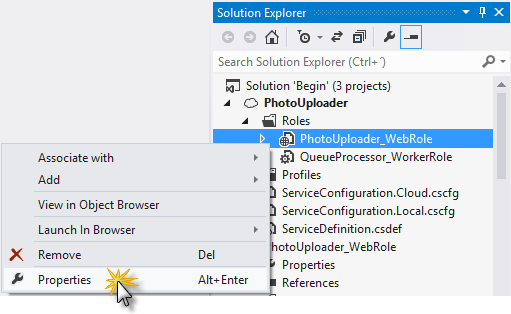
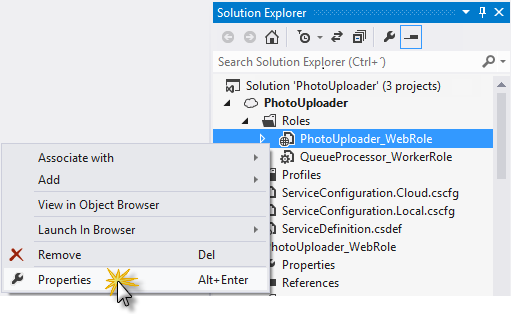
[HOL-GettingStartedWindowsAzureStorage] Tested and updated exercise 3

Changed region(s): [[0.5871, 0.258, 0.8806, 0.3153]]

diff --git a/HOLs/HOL-GettingStartedWindowsAzureStorage/Source/Ex3-UnderstandingStorageAbstractions/End/PhotoUploader_WebRole/Controllers/HomeController.cs b/HOLs/HOL-GettingStartedWindowsAzureStorage/Source/Ex3-UnderstandingStorageAbstractions/End/PhotoUploader_WebRole/Controllers/HomeController.cs
@@ -7,7 +7,6 @@ using System.Web.Mvc;
 using System.Threading.Tasks;
 using Microsoft.WindowsAzure;
 using Microsoft.WindowsAzure.Storage;
-using Microsoft.WindowsAzure.Storage.Table;
 using Microsoft.WindowsAzure.Storage.Blob;
 using Microsoft.WindowsAzure.Storage.Queue;
 
@@ -36,6 +35,7 @@ namespace PhotoUploader_WebRole.Controllers
             }
 
             var viewModel = this.ToViewModel(photo);
+
             if (!string.IsNullOrEmpty(photo.BlobReference))
             {
                 viewModel.Uri = this.GetBlobContainer().GetBlockBlobReference(photo.BlobReference).Uri.ToString();
@@ -95,6 +95,7 @@ namespace PhotoUploader_WebRole.Controllers
             }
 
             var viewModel = this.ToViewModel(photo);
+
             if (!string.IsNullOrEmpty(photo.BlobReference))
             {
                 viewModel.Uri = this.GetBlobContainer().GetBlockBlobReference(photo.BlobReference).Uri.ToString();
@@ -139,6 +140,7 @@ namespace PhotoUploader_WebRole.Controllers
             }
 
             var viewModel = this.ToViewModel(photo);
+
             if (!string.IsNullOrEmpty(photo.BlobReference))
             {
                 viewModel.Uri = this.GetBlobContainer().GetBlockBlobReference(photo.BlobReference).Uri.ToString();

diff --git a/HOLs/HOL-GettingStartedWindowsAzureStorage/Source/Ex3-UnderstandingStorageAbstractions/End/PhotoUploader_WebRole/Global.asax.cs b/HOLs/HOL-GettingStartedWindowsAzureStorage/Source/Ex3-UnderstandingStorageAbstractions/End/PhotoUploader_WebRole/Global.asax.cs
@@ -7,7 +7,6 @@ using System.Web.Optimization;
 using System.Web.Routing;
 using Microsoft.WindowsAzure;
 using Microsoft.WindowsAzure.Storage;
-using Microsoft.WindowsAzure.Storage.Table;
 using Microsoft.WindowsAzure.Storage.Blob;
 
 namespace PhotoUploader_WebRole

diff --git a/HOLs/HOL-GettingStartedWindowsAzureStorage/HOL.md b/HOLs/HOL-GettingStartedWindowsAzureStorage/HOL.md
@@ -266,7 +266,9 @@ In this task you will configure the _StorageConnectionString_ of the application
 
 1. Open **Visual Studio Express 2013 for Web** as Administrator.
 
-1. In the Start Page, click **Open Project...**, then browse to the **Source\Ex3-UnderstandingStorageAbstractions\Begin\** folder of this lab and open the **Begin.sln** solution. Make sure to set the **PhotoUploader** cloud project as the default project.
+1. In the Start Page, click **Open Project...**, then browse to the **Source\Ex3-UnderstandingStorageAbstractions\Begin\** folder of this lab and open the **PhotoUploader.sln** solution. Make sure to set the **PhotoUploader** cloud project as the default project.
+
+1. Press **CTRL+SHIFT+B** to build the solution.
 
 1. Go to the **PhotoUploader_WebRole** located in the **Roles** folder of the **PhotoUploader** solution. Right-click it and select **Properties**.
 
@@ -427,7 +429,6 @@ In this task you will update the MVC application actions to perform operations a
 	using System.Threading.Tasks;
 	using Microsoft.WindowsAzure;
 	using Microsoft.WindowsAzure.Storage;
-	using Microsoft.WindowsAzure.Storage.Table;
 	````
 
 1. Add a private field to create a _StorageAccount_ object. This object will be used to perform operations for each storage service.
@@ -444,7 +445,7 @@ In this task you will update the MVC application actions to perform operations a
 	}
 	````
 
-1.	In order to display the entities in the View, you will convert them to a **ViewModel** class. You are going to add two helper methods to convert from a **ViewModel** to a **Model** and viceversa. Add the following methods at the end of the class declaration.
+1.	In order to display the entities in the View, you will convert them to a **ViewModel** class. You are going to add two helper methods to convert from a **ViewModel** to a **Model** and vice versa. Add the following methods at the end of the **HomeController** class declaration.
 
 	(Code Snippet - _GettingStartedWindowsAzureStorage - Ex3-ViewModelHelpers_)
 
@@ -470,7 +471,7 @@ In this task you will update the MVC application actions to perform operations a
 	}
 	````
 
-1.	You will be using a **PhotoDataServiceContext** to interact with Table Storage, so add a new **GetPhotoContext** private method at the bottom of the class to create the context.
+1.	You will be using a **PhotoDataServiceContext** to interact with Table Storage, so add a new **GetPhotoContext** private method below the code you have just added to create the context.
 
 	(Code Snippet - _GettingStartedWindowsAzureStorage - Ex3-TableStorageGetPhotoContext_)
 
@@ -515,6 +516,7 @@ In this task you will update the MVC application actions to perform operations a
 		}
 
 		var viewModel = this.ToViewModel(photo);
+
 		return this.View(viewModel);
 	}
 	````
@@ -533,6 +535,7 @@ In this task you will update the MVC application actions to perform operations a
 		}
 
 		var photo = this.FromViewModel(photoViewModel);
+
 		// Save information to Table Storage
 		var photoContext = this.GetPhotoContext();
 		await photoContext.AddPhotoAsync(photo);
@@ -557,6 +560,7 @@ In this task you will update the MVC application actions to perform operations a
 		}
 
 		var viewModel = this.ToViewModel(photo);
+
 		return this.View(viewModel);
 	}
 	````
@@ -610,6 +614,7 @@ In this task you will update the MVC application actions to perform operations a
 		}
 
 		var viewModel = this.ToViewModel(photo);
+
 		return this.View(viewModel);
 	}
 	````
@@ -632,6 +637,7 @@ In this task you will update the MVC application actions to perform operations a
 		}
 
 		await photoContext.DeletePhotoAsync(photo);
+
 		return this.RedirectToAction("Index");
 	}
 	````
@@ -641,7 +647,6 @@ In this task you will update the MVC application actions to perform operations a
 	````C#
 	using Microsoft.WindowsAzure;
 	using Microsoft.WindowsAzure.Storage;
-	using Microsoft.WindowsAzure.Storage.Table;
 	````
 
 1. Add the following code at the end of the **Application_Start** method to ensure that whenever you start the application, the _Photos_ table is created.
@@ -925,13 +930,7 @@ In this task, you will use queues to simulate a notification service, where a me
 	}
 	````
 
-1. As you did with **Table** and **Blob**, you need to create the Queue at application start if it doesn't exist. Open **Global.asax.cs** and add the following using directive.
-
-	````C#
-	using Microsoft.WindowsAzure.Storage.Blob;
-	````
-
-1. Add the following code at the end of the **Application_Start** method to ensure the queue is created.
+1. Open **Global.asax.cs** and add the following code at the end of the **Application_Start** method to ensure the queue is created.
 
 	(Code Snippet - _GettingStartedWindowsAzureStorage - Ex3-QueueAppStart_)
 
@@ -1038,7 +1037,7 @@ In this task, you will use Visual Studio to inspect the Windows Azure Storage Ac
 
 1. Enter your **Live ID credentials** associated with the Storage Account you are using and sign in to Windows Azure.
 
-1. Expand the **Storage** drop-down and within it your account name. Notice that there is an entry for Tables, Blobs and Queues.
+1. Expand the **Storage** drop-down menu and within it your account name. Notice that there is an entry for Tables, Blobs and Queues.
 
 1. Expand the **Tables** container. You will see the **Photos** table under it.
 
